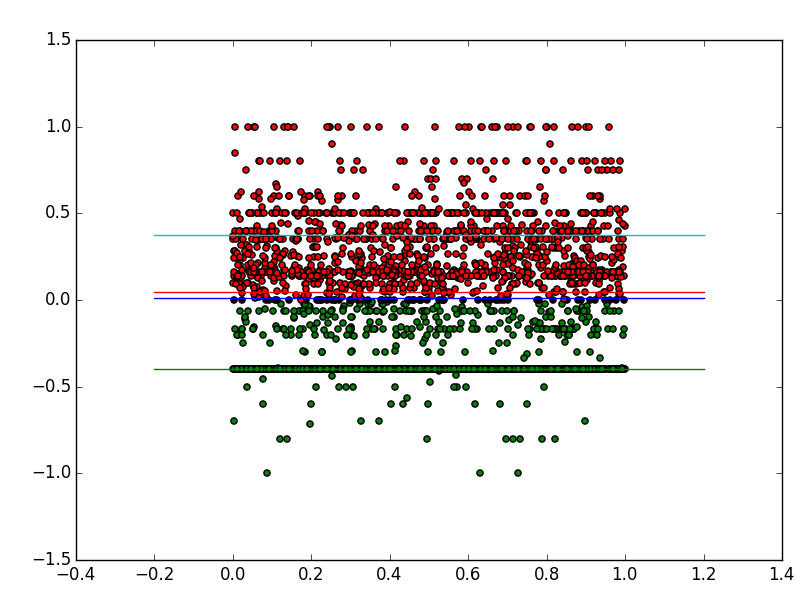
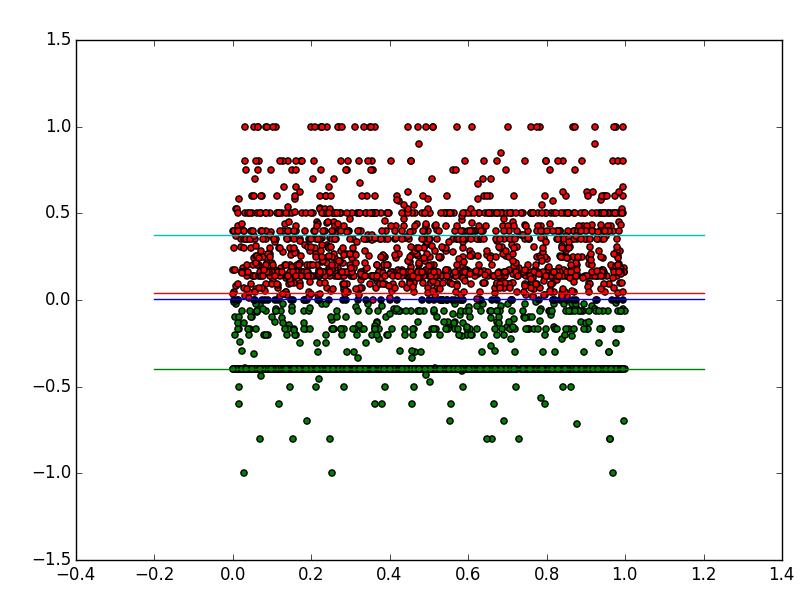
13th commit

diff --git a/TwitterSentimentAnalysis/Output.html b/TwitterSentimentAnalysis/Output.html
@@ -11,20 +11,7 @@
 <script
     src="http://maxcdn.bootstrapcdn.com/bootstrap/3.3.4/js/bootstrap.min.js"></script>
     <style>
-      
-.focus {
-  -webkit-transition: all 1s ease;
-     -moz-transition: all 1s ease;
-       -o-transition: all 1s ease;
-      -ms-transition: all 1s ease;
-          transition: all 1s ease;
-}
  
-.focus:hover {
-  border: 70px solid #000;
-  border-radius: 50%;
-}  
-      
     </style>
 </head>
 
@@ -90,7 +77,7 @@
                     <div class="col-md-6">
                     </br>
                     </br>
-                    <h4>3609</h4>
+                    <h4>2467</h4>
                     </div>
                     </li>
                     <li class="list-group-item row">
@@ -110,7 +97,7 @@
                     <div class="col-md-6">
                     </br>
                     </br>
-                    <h4>1054</h4>
+                    <h4>1111</h4>
                     </div>
                     </li>
                     <li class="list-group-item row">
@@ -120,7 +107,7 @@
                     <div class="col-md-6">
                     </br>
                     </br>
-                    <h4>61</h4>
+                    <h4>62</h4>
                     </div>
                     </li>
                     <li class="list-group-item row">
@@ -130,7 +117,7 @@
                     <div class="col-md-6">
                     </br>
                     </br>
-                    <h4>945</h4>
+                    <h4>962</h4>
                     </div>
                     </li>
                     <li class="list-group-item row">
@@ -140,7 +127,7 @@
                     <div class="col-md-6">
                     </br>
                     </br>
-                    <h4>293</h4>
+                    <h4>297</h4>
                     </div>
                     </li>
                     </ul>
@@ -149,9 +136,9 @@
             </div>
             <div class="row">
             <div class="col-lg-3">
-             <div class="focus pic">
+             
              <img src="piechart.png" class="img-responsive">
-             </div>
+             
             </div>
             <div class="col-lg-4">
              <img src="cloud_large.png" class="img-responsive">

diff --git a/TwitterSentimentAnalysis/twitterstream.py b/TwitterSentimentAnalysis/twitterstream.py
@@ -64,7 +64,7 @@ class StdOutListener(StreamListener):
             tf.write(json_data)
            
         self.num_of_tweets = self.num_of_tweets + 1
-        if self.num_of_tweets <100:
+        if self.num_of_tweets <5:
             return True
         else:
             tf.close()
@@ -169,8 +169,6 @@ if __name__ == '__main__':
     print "median: " + str(median)
     print "standatd_deviation: " + str(standard_deviation)
     
-<<<<<<< HEAD
-<<<<<<< HEAD
     if 0<mean<0.5:
         rating = "Good"
     elif 0.5<=mean<1:
@@ -183,10 +181,6 @@ if __name__ == '__main__':
         rating = "Horrible!"  
         
         
-=======
->>>>>>> origin/master
-=======
->>>>>>> origin/master
     people = ('Positive', 'Negative', 'Neutral')
     y_pos = np.arange(len(people))
     sizes=[len(positive)/float(total), len(negative)/float(total), len(neutral)/float(total)]
@@ -287,24 +281,7 @@ if __name__ == '__main__':
 <script
     src="http://maxcdn.bootstrapcdn.com/bootstrap/3.3.4/js/bootstrap.min.js"></script>
     <style>
-<<<<<<< HEAD
-<<<<<<< HEAD
-      
-
-      
-=======
-=======
->>>>>>> origin/master
-   
-    
-
-    
-
-
-<<<<<<< HEAD
->>>>>>> origin/master
-=======
->>>>>>> origin/master
+ 
     </style>
 </head>
 
@@ -334,17 +311,10 @@ if __name__ == '__main__':
         <li class="list-group-item">""" + tweets[9]+"""</li>
             </ul>
         </div>
-<<<<<<< HEAD
         <div class="col-lg-3">
            
-=======
-        <div class="col-lg-4">
-            <img src="statistic.png" class="img-responsive">
-<<<<<<< HEAD
->>>>>>> origin/master
-=======
->>>>>>> origin/master
             <img src="barchart.png" class="img-responsive">
+            
             </div>
             <div class="col-lg-3">
             <img src="details.png" class="img-responsive">
@@ -377,7 +347,7 @@ if __name__ == '__main__':
                     <div class="col-md-6">
                     </br>
                     </br>
-                    <h4>""" + str(db.iphonetweets.count()) + """</h4>
+                    <h4>""" + str(len(alist)) + """</h4>
                     </div>
                     </li>
                     <li class="list-group-item row">
@@ -429,52 +399,23 @@ if __name__ == '__main__':
                     </br>
                     <h4>""" + str(len(awesome)) + """</h4>
                     </div>
-<<<<<<< HEAD
-<<<<<<< HEAD
                     </li>
-=======
-=======
->>>>>>> origin/master
-                    </li>  
->>>>>>> origin/master
                     </ul>
                 </div>
            
             </div>
             <div class="row">
-<<<<<<< HEAD
             <div class="col-lg-3">
              
-            <img src="piechart.png" class="img-responsive">
+             <img src="piechart.png" class="img-responsive">
              
-=======
-            <div class="col-lg-4">
-            <img src="cloud_large.png" class="img-responsive">
-<<<<<<< HEAD
->>>>>>> origin/master
-=======
->>>>>>> origin/master
             </div>
-
-            <div class="row">
             <div class="col-lg-4">
-            <img src="details.png" class="img-responsive">
+             <img src="cloud_large.png" class="img-responsive">
             </div>
-<<<<<<< HEAD
-<<<<<<< HEAD
             <div class="col-lg-3">
              <img src="statistic.png" class="img-responsive">
             </div>
-=======
-
-
-
->>>>>>> origin/master
-=======
-
-
-
->>>>>>> origin/master
             </div>
     </div>
 </body>
